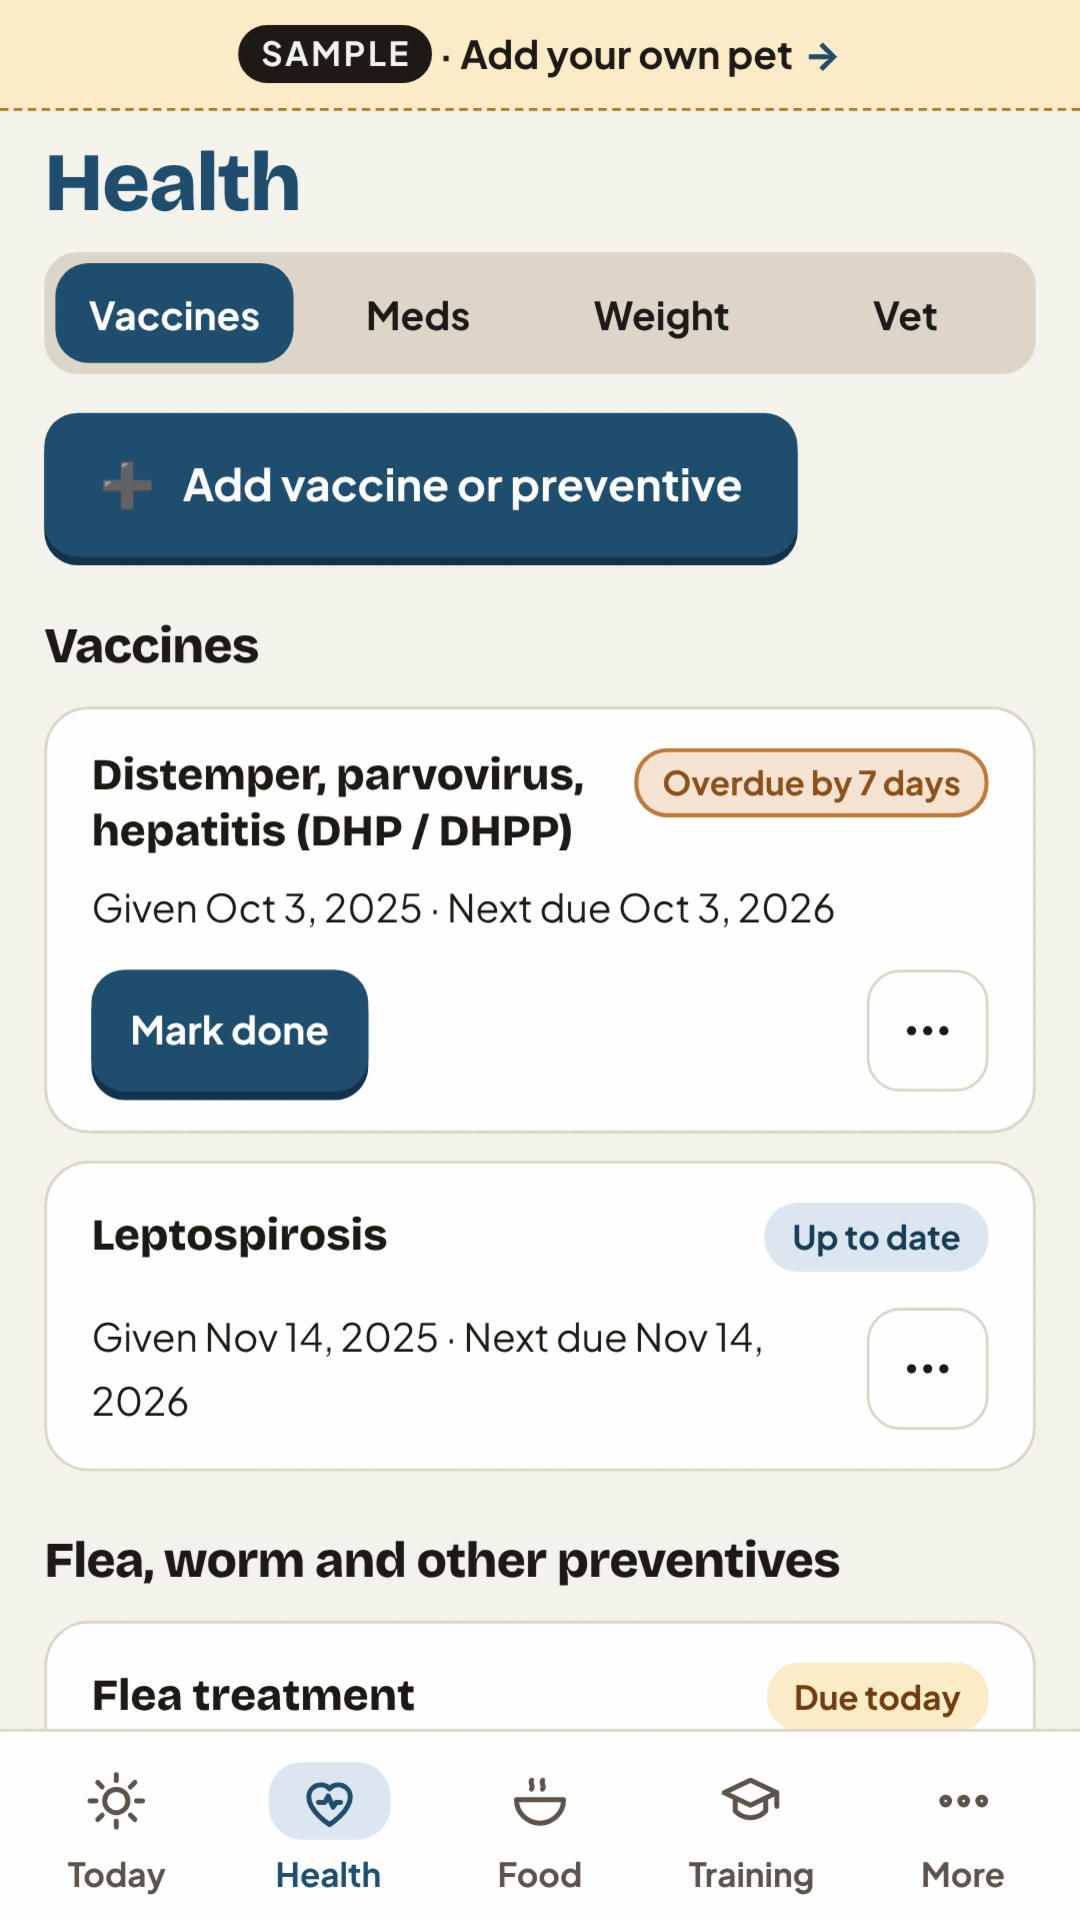
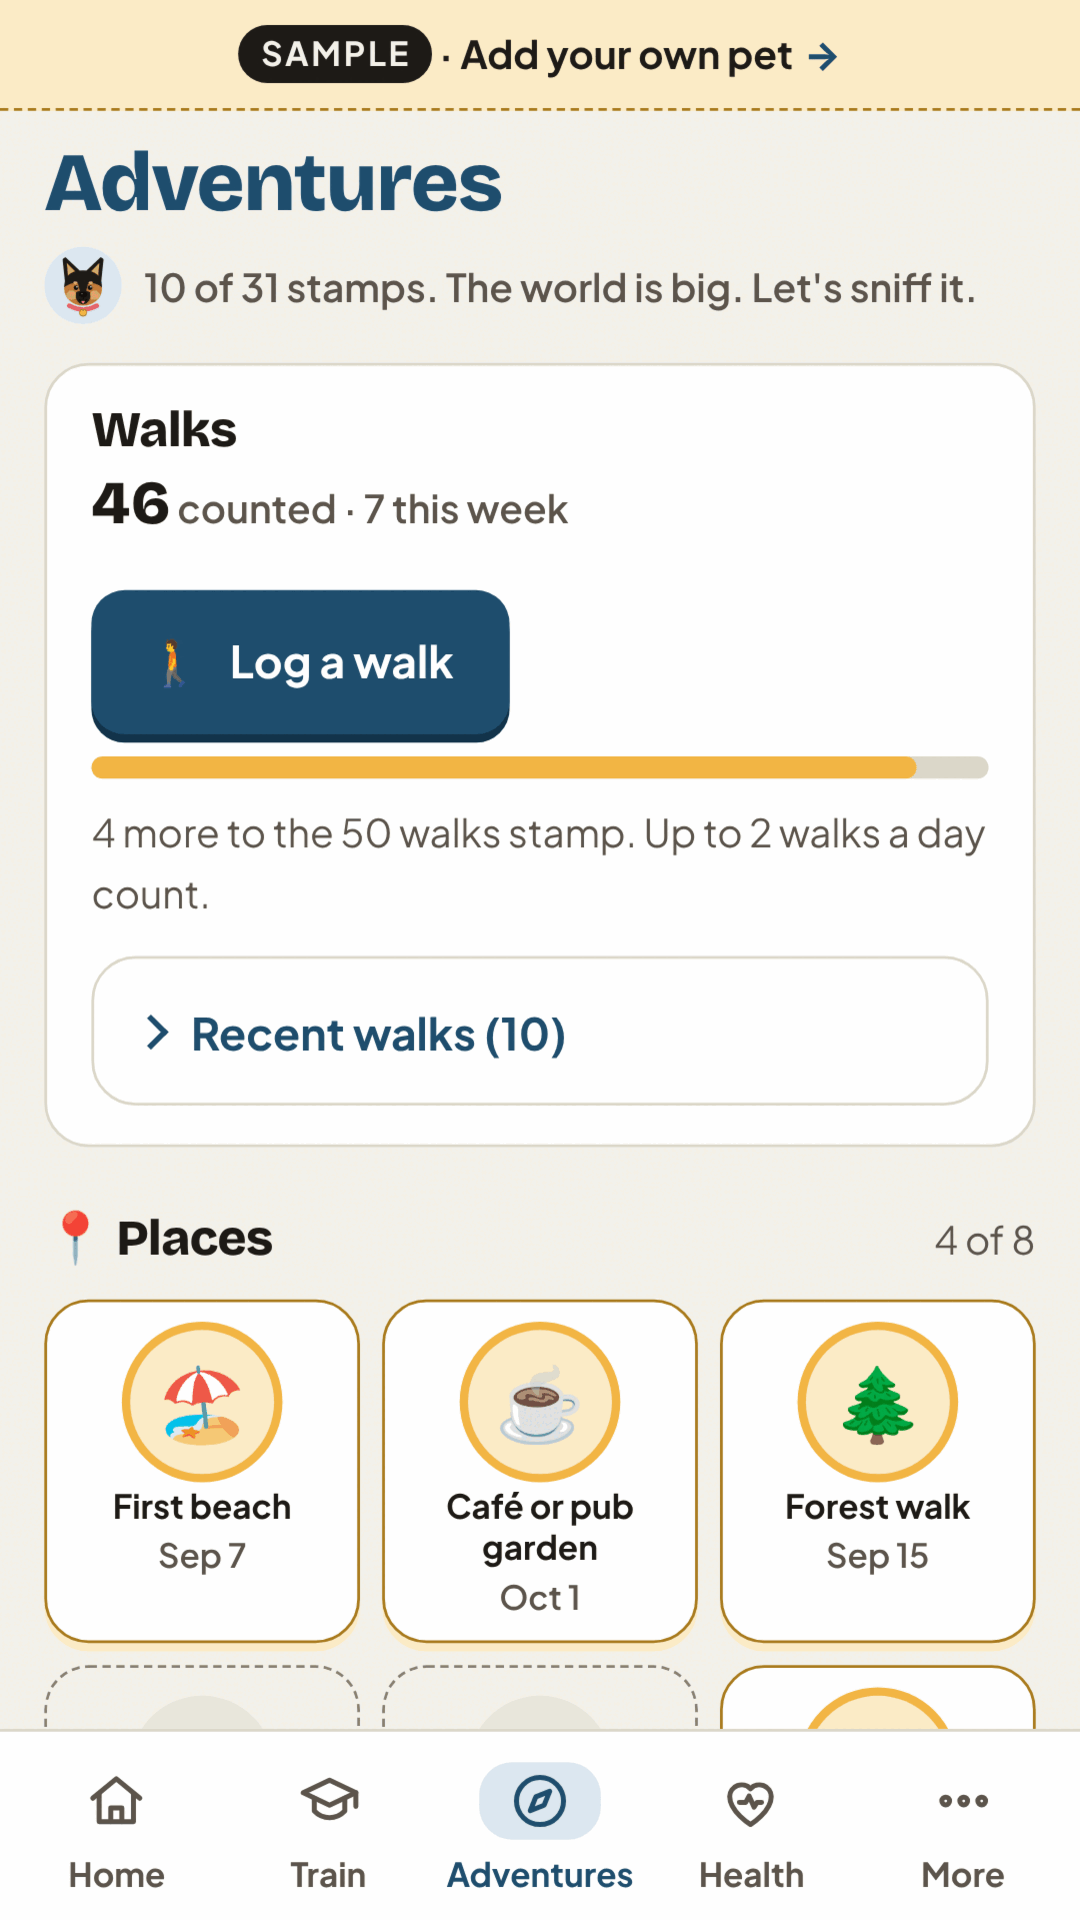
v2: manifest screenshots and labels for Level up together; bump SW version
Claude-Session: https://claude.ai/code/session_012PfYTX7XPERc5789kLUxCG

diff --git a/sw.js b/sw.js
@@ -4,7 +4,7 @@
 // A new version downloads every file in ASSETS in the background, all or nothing, then waits. The app shows
 // "Update ready"; tapping it sends SKIP_WAITING, this worker takes over and the page reloads. Until then the app keeps
 // running the version it started with, so old and new files are never mixed. ASSETS must list only files that exist.
-const VERSION = "2026-10-10-v2-1";
+const VERSION = "2026-10-10-v2-2";
 const CACHE = `novas-pack-${VERSION}`;
 const CLIPS = "novas-pack-clips";
 
